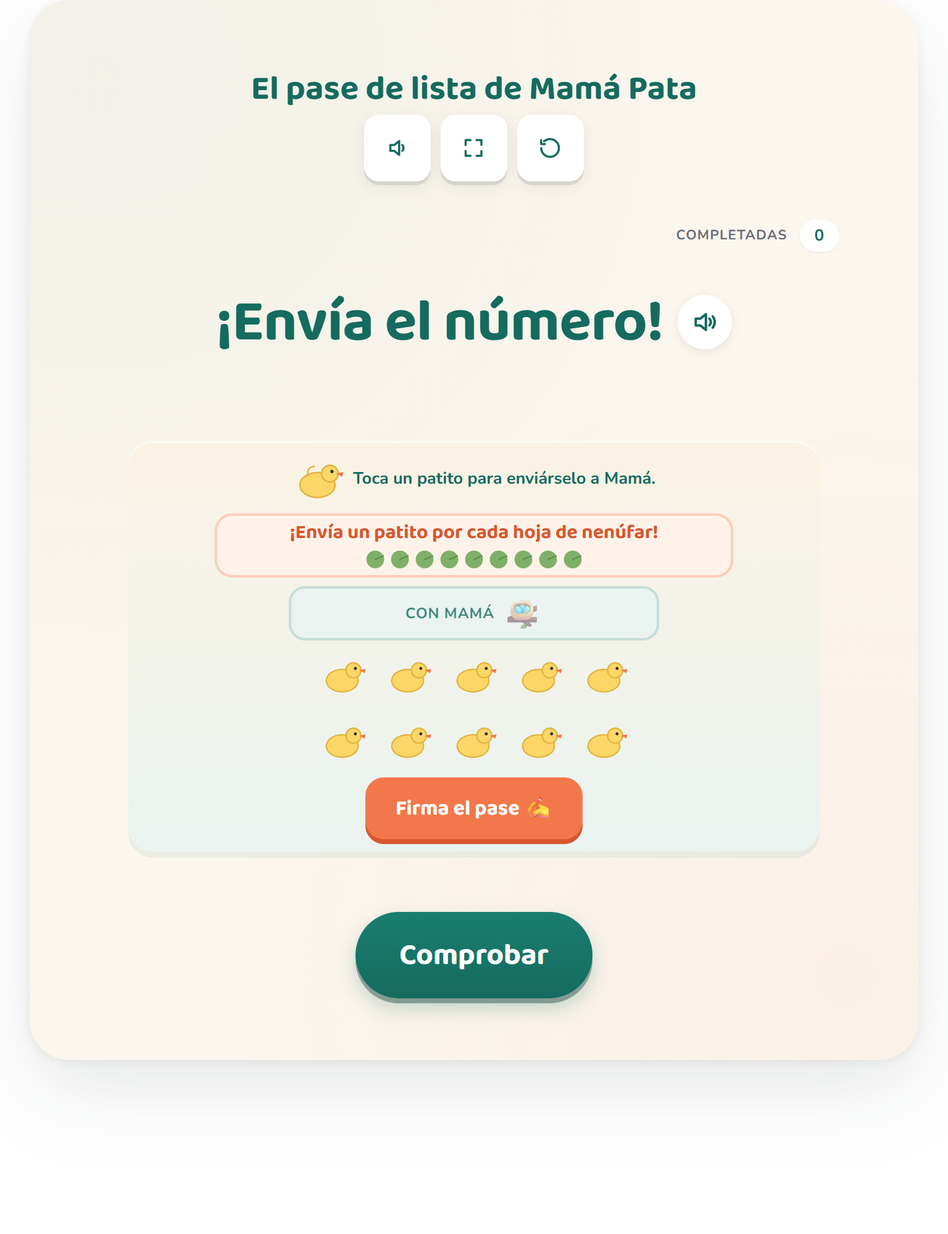
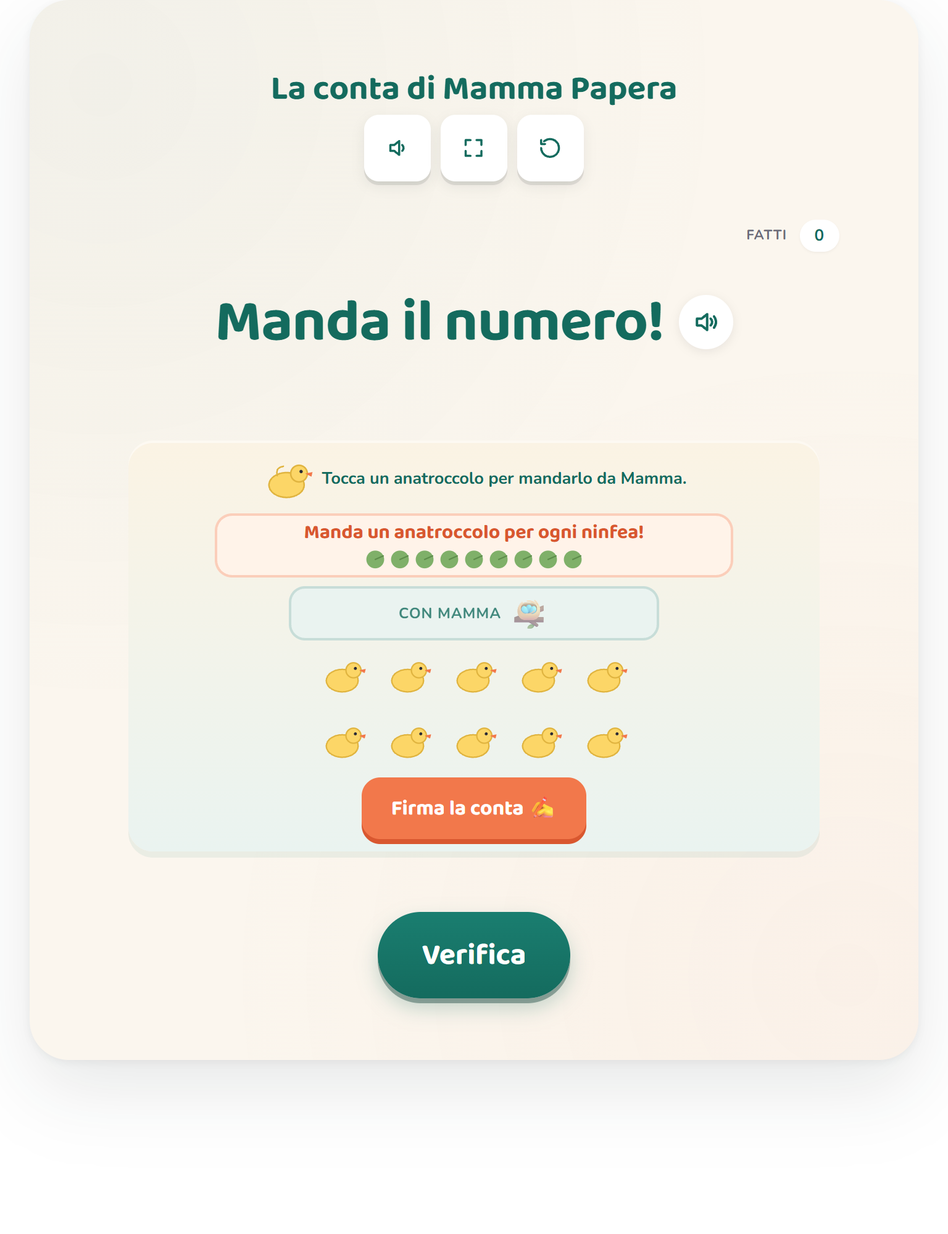
[FEATURE][I18N][IT] mamas-roll-call #71 — La conta di Mamma Papera (contare e scrivere il numero 0-9, Numeri, classe prima)
Italian second-batch fan-out, activity #71 = mamas-roll-call.numeral-trace.k-cc-b-5.
Rebuild not translate for the Indicazioni nazionali (3-agent native ensemble).

- WORDS_IT (0-9) + COLOR_IT ({yellow,brown}×{adj,sg}, gender-aware) + numWord it + speak it-IT (fixes en-US fallback).
- 24 it strings + 5 inline arms (color-word .adj, recall aria, send-duck aria .sg, count-duck aria, zero-speak); apostrophe-free JS.
- ⚠ roll call «la conta» (apostrophe-safe, puns on contare — NOT «l'appello» in JS); traceIt «Scrivi il numero {n}» (digby #64 invariant fix).
- Terminology: Mamma Papera / gli anatroccoli / la zattera / la ninfea / il fango / il numero (NOT «cifra»); COLOR gialli/marroni.
- Register split (pedagogue-sanctioned): child UI «la conta» / parent SEO+prose «l'appello» (U+2019 fine in JSON).
- GRADE classe prima (it:'1', pedagogue-decisive): scrivere il numerale convenzionale 0-9 = past infanzia («simboli personali»; digby #64 boundary — convenzionalità del segno, not range). ALIGNS de/pt; fr(GS)/es(K) diverge.
- STRAND «Numeri» AUTO — no it override (C&C→it «Numeri»; the STRAND row is fr-only; color-subset is a counting task not data).
- Manifest slug/page_title/page_intro it; it.json prose; wrapper 9.523->9.524; html ?v 9->10.
- Framework NAME only, no curriculum code. 132 it activities, all DoD gates green. NO deploy (batch at end).

diff --git a/mini tools/mamas-roll-call-activity.js b/mini tools/mamas-roll-call-activity.js
@@ -36,13 +36,16 @@
   var WORDS_PT = { 0: 'zero', 1: 'um', 2: 'dois', 3: 'três', 4: 'quatro', 5: 'cinco', 6: 'seis', 7: 'sete', 8: 'oito', 9: 'nove' };
   /* Brazilian: adjective FOLLOWS the noun (« patinhos amarelos »); adj = plural for the call, sg = singular for the aria. "marrom" → plural "marrons". */
   var COLOR_PT = { yellow: { adj: 'amarelos', sg: 'amarelo' }, brown: { adj: 'marrons', sg: 'marrom' } };
+  var WORDS_IT = { 0: 'zero', 1: 'uno', 2: 'due', 3: 'tre', 4: 'quattro', 5: 'cinque', 6: 'sei', 7: 'sette', 8: 'otto', 9: 'nove' };
+  /* Italian: adjective FOLLOWS the noun (« anatroccoli gialli »); adj = plural for the call, sg = singular for the aria. "marrone" → plural "marroni". */
+  var COLOR_IT = { yellow: { adj: 'gialli', sg: 'giallo' }, brown: { adj: 'marroni', sg: 'marrone' } };
   var LANG = 'en';
-  function numWord(n) { return (LANG === 'de' ? WORDS_DE : (LANG === 'fr' ? WORDS_FR : (LANG === 'es' ? WORDS_ES : (LANG === 'pt' ? WORDS_PT : WORDS))))[n] || n; }
+  function numWord(n) { return (LANG === 'de' ? WORDS_DE : (LANG === 'fr' ? WORDS_FR : (LANG === 'es' ? WORDS_ES : (LANG === 'pt' ? WORDS_PT : (LANG === 'it' ? WORDS_IT : WORDS)))))[n] || n; }
 
   function speak(text) {
     try {
       if (global.LCSAudio && global.LCSAudio.speak) { global.LCSAudio.speak({ type: 'number', text: String(text), lang: (LANG === 'pt' ? 'pt-BR' : LANG), rate: 0.95 }); return; }
-      if (global.speechSynthesis && global.SpeechSynthesisUtterance) { var u = new global.SpeechSynthesisUtterance(String(text)); u.rate = .95; u.lang = (LANG === 'de' ? 'de-DE' : (LANG === 'fr' ? 'fr-FR' : (LANG === 'es' ? 'es-MX' : (LANG === 'pt' ? 'pt-BR' : 'en-US')))); global.speechSynthesis.cancel(); global.speechSynthesis.speak(u); }
+      if (global.speechSynthesis && global.SpeechSynthesisUtterance) { var u = new global.SpeechSynthesisUtterance(String(text)); u.rate = .95; u.lang = (LANG === 'de' ? 'de-DE' : (LANG === 'fr' ? 'fr-FR' : (LANG === 'es' ? 'es-MX' : (LANG === 'pt' ? 'pt-BR' : (LANG === 'it' ? 'it-IT' : 'en-US'))))); global.speechSynthesis.cancel(); global.speechSynthesis.speak(u); }
     } catch (e) {}
   }
   function duckSVG(kind, mama) {
@@ -63,30 +66,30 @@
     reward: { id: 'rollbook', label: "Mama's Roll-Book", emoji: '🦆' },
 
     strings: {
-      title: { en: "Mama's Roll Call", de: 'Mamas Morgenappell', fr: 'L’appel de Maman', es: 'El pase de lista de Mamá Pata', pt: 'A chamada da Mamãe Pata' },
-      instruction: { en: 'Send Mama the number she calls, then write it.', de: 'Schick Mama die Zahl, die sie ruft – dann schreib sie auf.', fr: 'Envoie à Maman le nombre qu’elle demande, puis écris-le.', es: 'Envíale a Mamá Pata la cantidad de patitos que pida y luego escribe el número.', pt: 'Envie à Mamãe Pata a quantidade de patinhos que ela pedir e depois escreva o número.' },
-      prompt: { en: 'Send the number!', de: 'Schick die Zahl!', fr: 'Envoie le nombre !', es: '¡Envía el número!', pt: 'Envie o número!' },
-      callNumeral: { en: 'Mama needs {n}!', de: 'Mama braucht {n}!', fr: 'Maman a besoin de {n} !', es: '¡Mamá necesita {n}!', pt: 'A Mamãe precisa de {n}!' },
-      callZero: { en: 'Mama needs NONE — let them sleep!', de: 'Mama braucht KEINS – lass sie schlafen!', fr: 'Maman n’en veut AUCUN — laisse-les dormir !', es: 'Mamá no necesita ninguno… ¡déjalos dormir!', pt: 'A Mamãe não precisa de nenhum… deixe eles dormirem!' },
-      callGroup: { en: 'Send a duckling for each lily-pad!', de: 'Schick für jedes Seerosenblatt ein Entenküken!', fr: 'Envoie un caneton pour chaque nénuphar !', es: '¡Envía un patito por cada hoja de nenúfar!', pt: 'Envie um patinho para cada folha de vitória-régia!' },
-      callKind: { en: 'Send {n} {kind} ducklings!', de: 'Schick {n} {kind} Entenküken!', fr: 'Envoie {n} canetons {kind} !', es: '¡Envía {n} patitos {kind}!', pt: 'Envie {n} patinhos {kind}!' },
-      countBrood: { en: 'How many came to Mama? Tap each to count.', de: 'Wie viele sind zu Mama gekommen? Tippe jedes an, um zu zählen.', fr: 'Combien sont venus vers Maman ? Touche chacun pour compter.', es: '¿Cuántos llegaron con Mamá? Toca cada uno para contarlos.', pt: 'Quantos chegaram até a Mamãe? Toque em cada um para contar.' },
-      arriveLab: { en: 'More keep arriving — count them all!', de: 'Es kommen noch mehr – zähl sie alle!', fr: 'Il en arrive encore — compte-les tous !', es: '¡Vienen más… cuéntalos todos!', pt: 'Estão chegando mais… conte todos!' },
-      hintSend: { en: 'Tap a duckling to send it across to Mama.', de: 'Tippe ein Entenküken an, um es zu Mama hinüberzuschicken.', fr: 'Touche un caneton pour l’envoyer vers Maman.', es: 'Toca un patito para enviárselo a Mamá.', pt: 'Toque em um patinho para enviá-lo à Mamãe.' },
-      hintCount: { en: 'Tap each duckling once to count it.', de: 'Tippe jedes Entenküken einmal an, um es zu zählen.', fr: 'Touche chaque caneton une fois pour le compter.', es: 'Toca cada patito una vez para contarlo.', pt: 'Toque em cada patinho uma vez para contá-lo.' },
-      signNav: { en: 'Sign the roll ✍', de: 'Appell unterschreiben ✍', fr: 'Signe l’appel ✍', es: 'Firma el pase ✍', pt: 'Assine a chamada ✍' },
-      moreArrive: { en: 'More arrive ▶', de: 'Es kommen mehr ▶', fr: 'Il en arrive plus ▶', es: 'Vienen más ▶', pt: 'Chegam mais ▶' },
-      backRaft: { en: '← send more', de: '← mehr schicken', fr: '← en envoyer plus', es: '← enviar más', pt: '← enviar mais' },
-      signHint: { en: 'Write the number in the mud to call the roll!', de: 'Schreib die Zahl in den Schlamm, um den Appell aufzurufen!', fr: 'Écris le nombre dans la boue pour faire l’appel !', es: '¡Escribe el número en el lodo para pasar lista!', pt: 'Escreva o número na lama para fazer a chamada!' },
-      traceIt: { en: 'Write the {n}', de: 'Schreib die {n}', fr: 'Écris le {n}', es: 'Escribe el {n}', pt: 'Escreva o {n}' },
-      strokeN: { en: 'Stroke {k}', de: 'Strich {k}', fr: 'Trait {k}', es: 'Trazo {k}', pt: 'Traço {k}' },
-      thisWay: { en: 'Start that stroke first — this way!', de: 'Fang mit diesem Strich an – so herum!', fr: 'Commence par ce trait — dans ce sens !', es: 'Empieza con este trazo… ¡por aquí!', pt: 'Comece por esse traço… por aqui!' },
-      sealed: { en: 'The roll is true — Mama gathers her brood! 🦆', de: 'Der Appell stimmt – Mama sammelt ihre Schar! 🦆', fr: 'L’appel est bon — Maman rassemble ses petits ! 🦆', es: '¡El pase está bien… Mamá reúne a su parvada! 🦆', pt: 'A chamada está certa — a Mamãe reúne os patinhos! 🦆' },
-      sealedZero: { en: 'Zero ducklings — and you wrote the zero! The raft sleeps in. 🌙', de: 'Null Entenküken – und du hast die Null geschrieben! Das Floß schläft weiter. 🌙', fr: 'Zéro caneton — et tu as écrit le zéro ! Le radeau dort encore. 🌙', es: 'Cero patitos… ¡y escribiste el cero! La balsa sigue durmiendo. 🌙', pt: 'Zero patinhos — e você escreveu o zero! A balsa fica dormindo. 🌙' },
-      redo: { en: "Let's call that roll again.", de: 'Lass uns den Appell noch einmal aufrufen.', fr: 'Refaisons l’appel.', es: 'Vamos a pasar lista otra vez.', pt: 'Vamos fazer a chamada de novo.' },
-      tapCheck: { en: 'Tap Check! ✓', de: 'Tippe auf Prüfen! ✓', fr: 'Touche Vérifier ! ✓', es: '¡Toca Comprobar! ✓', pt: 'Toque em Verificar! ✓' },
-      sentLab: { en: 'With Mama', de: 'Bei Mama', fr: 'Avec Maman', es: 'Con Mamá', pt: 'Com a Mamãe' },
-      raftLab: { en: 'The raft', de: 'Das Floß', fr: 'Le radeau', es: 'La balsa', pt: 'A balsa' }
+      title: { en: "Mama's Roll Call", de: 'Mamas Morgenappell', fr: 'L’appel de Maman', es: 'El pase de lista de Mamá Pata', pt: 'A chamada da Mamãe Pata', it: 'La conta di Mamma Papera' },
+      instruction: { en: 'Send Mama the number she calls, then write it.', de: 'Schick Mama die Zahl, die sie ruft – dann schreib sie auf.', fr: 'Envoie à Maman le nombre qu’elle demande, puis écris-le.', es: 'Envíale a Mamá Pata la cantidad de patitos que pida y luego escribe el número.', pt: 'Envie à Mamãe Pata a quantidade de patinhos que ela pedir e depois escreva o número.', it: 'Manda a Mamma il numero che chiama, poi scrivilo.' },
+      prompt: { en: 'Send the number!', de: 'Schick die Zahl!', fr: 'Envoie le nombre !', es: '¡Envía el número!', pt: 'Envie o número!', it: 'Manda il numero!' },
+      callNumeral: { en: 'Mama needs {n}!', de: 'Mama braucht {n}!', fr: 'Maman a besoin de {n} !', es: '¡Mamá necesita {n}!', pt: 'A Mamãe precisa de {n}!', it: 'Mamma ne vuole {n}!' },
+      callZero: { en: 'Mama needs NONE — let them sleep!', de: 'Mama braucht KEINS – lass sie schlafen!', fr: 'Maman n’en veut AUCUN — laisse-les dormir !', es: 'Mamá no necesita ninguno… ¡déjalos dormir!', pt: 'A Mamãe não precisa de nenhum… deixe eles dormirem!', it: 'Mamma non ne vuole NESSUNO — falli dormire!' },
+      callGroup: { en: 'Send a duckling for each lily-pad!', de: 'Schick für jedes Seerosenblatt ein Entenküken!', fr: 'Envoie un caneton pour chaque nénuphar !', es: '¡Envía un patito por cada hoja de nenúfar!', pt: 'Envie um patinho para cada folha de vitória-régia!', it: 'Manda un anatroccolo per ogni ninfea!' },
+      callKind: { en: 'Send {n} {kind} ducklings!', de: 'Schick {n} {kind} Entenküken!', fr: 'Envoie {n} canetons {kind} !', es: '¡Envía {n} patitos {kind}!', pt: 'Envie {n} patinhos {kind}!', it: 'Manda {n} anatroccoli {kind}!' },
+      countBrood: { en: 'How many came to Mama? Tap each to count.', de: 'Wie viele sind zu Mama gekommen? Tippe jedes an, um zu zählen.', fr: 'Combien sont venus vers Maman ? Touche chacun pour compter.', es: '¿Cuántos llegaron con Mamá? Toca cada uno para contarlos.', pt: 'Quantos chegaram até a Mamãe? Toque em cada um para contar.', it: 'Quanti sono arrivati da Mamma? Tocca ognuno per contarli.' },
+      arriveLab: { en: 'More keep arriving — count them all!', de: 'Es kommen noch mehr – zähl sie alle!', fr: 'Il en arrive encore — compte-les tous !', es: '¡Vienen más… cuéntalos todos!', pt: 'Estão chegando mais… conte todos!', it: 'Ne arrivano altri — contali tutti!' },
+      hintSend: { en: 'Tap a duckling to send it across to Mama.', de: 'Tippe ein Entenküken an, um es zu Mama hinüberzuschicken.', fr: 'Touche un caneton pour l’envoyer vers Maman.', es: 'Toca un patito para enviárselo a Mamá.', pt: 'Toque em um patinho para enviá-lo à Mamãe.', it: 'Tocca un anatroccolo per mandarlo da Mamma.' },
+      hintCount: { en: 'Tap each duckling once to count it.', de: 'Tippe jedes Entenküken einmal an, um es zu zählen.', fr: 'Touche chaque caneton une fois pour le compter.', es: 'Toca cada patito una vez para contarlo.', pt: 'Toque em cada patinho uma vez para contá-lo.', it: 'Tocca ogni anatroccolo una volta per contarlo.' },
+      signNav: { en: 'Sign the roll ✍', de: 'Appell unterschreiben ✍', fr: 'Signe l’appel ✍', es: 'Firma el pase ✍', pt: 'Assine a chamada ✍', it: 'Firma la conta ✍' },
+      moreArrive: { en: 'More arrive ▶', de: 'Es kommen mehr ▶', fr: 'Il en arrive plus ▶', es: 'Vienen más ▶', pt: 'Chegam mais ▶', it: 'Ne arrivano altri ▶' },
+      backRaft: { en: '← send more', de: '← mehr schicken', fr: '← en envoyer plus', es: '← enviar más', pt: '← enviar mais', it: '← mandane altri' },
+      signHint: { en: 'Write the number in the mud to call the roll!', de: 'Schreib die Zahl in den Schlamm, um den Appell aufzurufen!', fr: 'Écris le nombre dans la boue pour faire l’appel !', es: '¡Escribe el número en el lodo para pasar lista!', pt: 'Escreva o número na lama para fazer a chamada!', it: 'Scrivi il numero nel fango per fare la conta!' },
+      traceIt: { en: 'Write the {n}', de: 'Schreib die {n}', fr: 'Écris le {n}', es: 'Escribe el {n}', pt: 'Escreva o {n}', it: 'Scrivi il numero {n}' },
+      strokeN: { en: 'Stroke {k}', de: 'Strich {k}', fr: 'Trait {k}', es: 'Trazo {k}', pt: 'Traço {k}', it: 'Tratto {k}' },
+      thisWay: { en: 'Start that stroke first — this way!', de: 'Fang mit diesem Strich an – so herum!', fr: 'Commence par ce trait — dans ce sens !', es: 'Empieza con este trazo… ¡por aquí!', pt: 'Comece por esse traço… por aqui!', it: 'Comincia prima da quel tratto — così!' },
+      sealed: { en: 'The roll is true — Mama gathers her brood! 🦆', de: 'Der Appell stimmt – Mama sammelt ihre Schar! 🦆', fr: 'L’appel est bon — Maman rassemble ses petits ! 🦆', es: '¡El pase está bien… Mamá reúne a su parvada! 🦆', pt: 'A chamada está certa — a Mamãe reúne os patinhos! 🦆', it: 'La conta è giusta — Mamma raduna i suoi piccoli! 🦆' },
+      sealedZero: { en: 'Zero ducklings — and you wrote the zero! The raft sleeps in. 🌙', de: 'Null Entenküken – und du hast die Null geschrieben! Das Floß schläft weiter. 🌙', fr: 'Zéro caneton — et tu as écrit le zéro ! Le radeau dort encore. 🌙', es: 'Cero patitos… ¡y escribiste el cero! La balsa sigue durmiendo. 🌙', pt: 'Zero patinhos — e você escreveu o zero! A balsa fica dormindo. 🌙', it: 'Zero anatroccoli — e hai scritto lo zero! La zattera resta a dormire. 🌙' },
+      redo: { en: "Let's call that roll again.", de: 'Lass uns den Appell noch einmal aufrufen.', fr: 'Refaisons l’appel.', es: 'Vamos a pasar lista otra vez.', pt: 'Vamos fazer a chamada de novo.', it: 'Rifacciamo la conta.' },
+      tapCheck: { en: 'Tap Check! ✓', de: 'Tippe auf Prüfen! ✓', fr: 'Touche Vérifier ! ✓', es: '¡Toca Comprobar! ✓', pt: 'Toque em Verificar! ✓', it: 'Tocca Controlla! ✓' },
+      sentLab: { en: 'With Mama', de: 'Bei Mama', fr: 'Avec Maman', es: 'Con Mamá', pt: 'Com a Mamãe', it: 'Con Mamma' },
+      raftLab: { en: 'The raft', de: 'Das Floß', fr: 'Le radeau', es: 'La balsa', pt: 'A balsa', it: 'La zattera' }
     },
     defaults: {},
 
@@ -146,7 +149,7 @@
       var n = this._n(), bign = '<span class="rc-call-big">' + n + '</span>';
       var t = api.el('div', 'rc-call-text');
       if (this.act === 'count-out-distract') {
-        var k = this.round.call.kind, kindWord = (LANG === 'de' && COLOR_DE[k]) ? COLOR_DE[k].adj : ((LANG === 'fr' && COLOR_FR[k]) ? COLOR_FR[k].adj : ((LANG === 'es' && COLOR_ES[k]) ? COLOR_ES[k].adj : ((LANG === 'pt' && COLOR_PT[k]) ? COLOR_PT[k].adj : k)));
+        var k = this.round.call.kind, kindWord = (LANG === 'de' && COLOR_DE[k]) ? COLOR_DE[k].adj : ((LANG === 'fr' && COLOR_FR[k]) ? COLOR_FR[k].adj : ((LANG === 'es' && COLOR_ES[k]) ? COLOR_ES[k].adj : ((LANG === 'pt' && COLOR_PT[k]) ? COLOR_PT[k].adj : ((LANG === 'it' && COLOR_IT[k]) ? COLOR_IT[k].adj : k))));
         t.innerHTML = api.t('callKind').replace('{n}', bign).replace('{kind}', kindWord);
       } else {
         t.innerHTML = api.t('callNumeral').replace('{n}', bign);
@@ -172,13 +175,13 @@
       s.sent.forEach(function (d) { var m = api.el('span', 'rc-sentmini'); m.innerHTML = duckSVG(d.kind); srow.appendChild(m); });
       if (!s.sent.length) { var e = api.el('span', 'rc-emptyz'); e.textContent = '🪺'; srow.appendChild(e); }
       sent.appendChild(srow);
-      if (s.sent.length) { var rb = api.el('button', 'rc-recall'); rb.type = 'button'; rb.textContent = '↩'; rb.setAttribute('aria-label', LANG === 'de' ? 'eins zurückrufen' : (LANG === 'fr' ? 'en rappeler un' : (LANG === 'es' ? 'regresar un patito' : (LANG === 'pt' ? 'devolver um patinho' : 'call one back')))); rb.addEventListener('click', function () { Core.recallDuck(s, s.sent[s.sent.length - 1].id); self.msg = null; self.api.sound && self.api.sound(360); self.render(); }); sent.appendChild(rb); }
+      if (s.sent.length) { var rb = api.el('button', 'rc-recall'); rb.type = 'button'; rb.textContent = '↩'; rb.setAttribute('aria-label', LANG === 'de' ? 'eins zurückrufen' : (LANG === 'fr' ? 'en rappeler un' : (LANG === 'es' ? 'regresar un patito' : (LANG === 'pt' ? 'devolver um patinho' : (LANG === 'it' ? 'richiamane uno' : 'call one back'))))); rb.addEventListener('click', function () { Core.recallDuck(s, s.sent[s.sent.length - 1].id); self.msg = null; self.api.sound && self.api.sound(360); self.render(); }); sent.appendChild(rb); }
       col.appendChild(sent);
       // the raft (remaining) — tap to send (no label; the ducks obviously are the raft)
       var raft = api.el('div', 'rc-raft');
       var remaining = s.raft.filter(function (d) { return !s.sent.some(function (x) { return x.id === d.id; }); });
       var rrow = api.el('div', 'rc-ducks rc-lay-' + (this.round.raft.arrangement || 'tidy'));
-      remaining.forEach(function (d) { var b = api.el('button', 'rc-duck'); b.type = 'button'; b.innerHTML = duckSVG(d.kind); b.setAttribute('aria-label', LANG === 'de' ? ((COLOR_DE[d.kind] ? COLOR_DE[d.kind].sg + ' ' : '') + 'Entenküken — zum Schicken tippen') : (LANG === 'fr' ? ((COLOR_FR[d.kind] ? 'caneton ' + COLOR_FR[d.kind].sg : 'caneton') + ' — touche pour l’envoyer') : (LANG === 'es' ? ((COLOR_ES[d.kind] ? 'patito ' + COLOR_ES[d.kind].sg : 'patito') + ' — toca para enviarlo') : (LANG === 'pt' ? ((COLOR_PT[d.kind] ? 'patinho ' + COLOR_PT[d.kind].sg : 'patinho') + ' — toque para enviar') : (d.kind + ' duckling — tap to send'))))); b.addEventListener('click', function () { Core.sendDuck(s, d.id); self.msg = null; self.api.sound && self.api.sound(520); self.render(); }); rrow.appendChild(b); });
+      remaining.forEach(function (d) { var b = api.el('button', 'rc-duck'); b.type = 'button'; b.innerHTML = duckSVG(d.kind); b.setAttribute('aria-label', LANG === 'de' ? ((COLOR_DE[d.kind] ? COLOR_DE[d.kind].sg + ' ' : '') + 'Entenküken — zum Schicken tippen') : (LANG === 'fr' ? ((COLOR_FR[d.kind] ? 'caneton ' + COLOR_FR[d.kind].sg : 'caneton') + ' — touche pour l’envoyer') : (LANG === 'es' ? ((COLOR_ES[d.kind] ? 'patito ' + COLOR_ES[d.kind].sg : 'patito') + ' — toca para enviarlo') : (LANG === 'pt' ? ((COLOR_PT[d.kind] ? 'patinho ' + COLOR_PT[d.kind].sg : 'patinho') + ' — toque para enviar') : (LANG === 'it' ? ((COLOR_IT[d.kind] ? 'anatroccolo ' + COLOR_IT[d.kind].sg : 'anatroccolo') + ' — tocca per mandarlo') : (d.kind + ' duckling — tap to send')))))); b.addEventListener('click', function () { Core.sendDuck(s, d.id); self.msg = null; self.api.sound && self.api.sound(520); self.render(); }); rrow.appendChild(b); });
       raft.appendChild(rrow); col.appendChild(raft);
       return col;
     },
@@ -187,7 +190,7 @@
       var brood = s.brood;
       var shown = (this.act === 'running-total') ? brood.slice(0, this._revealedCount()) : brood;
       var row = api.el('div', 'rc-ducks rc-lay-tidy');
-      shown.forEach(function (d) { var counted = !!s.counted[d.id]; var b = api.el('button', 'rc-duck' + (counted ? ' rc-counted' : '')); b.type = 'button'; b.innerHTML = duckSVG('duck'); b.setAttribute('aria-label', LANG === 'de' ? ('Entenküken' + (counted ? ', gezählt' : '')) : (LANG === 'fr' ? ('caneton' + (counted ? ', compté' : '')) : (LANG === 'es' ? ('patito' + (counted ? ', contado' : '')) : (LANG === 'pt' ? ('patinho' + (counted ? ', contado' : '')) : ('duckling' + (counted ? ', counted' : '')))))); b.addEventListener('click', function () { if (!s.counted[d.id]) { Core.countDuck(s, d.id); self.api.sound && self.api.sound(540 + Core.countedSize(s) * 20); speak(Core.countedSize(s)); self.msg = null; self.render(); } }); if (counted) { var ck = api.el('span', 'rc-check'); ck.textContent = '✓'; b.appendChild(ck); } row.appendChild(b); });
+      shown.forEach(function (d) { var counted = !!s.counted[d.id]; var b = api.el('button', 'rc-duck' + (counted ? ' rc-counted' : '')); b.type = 'button'; b.innerHTML = duckSVG('duck'); b.setAttribute('aria-label', LANG === 'de' ? ('Entenküken' + (counted ? ', gezählt' : '')) : (LANG === 'fr' ? ('caneton' + (counted ? ', compté' : '')) : (LANG === 'es' ? ('patito' + (counted ? ', contado' : '')) : (LANG === 'pt' ? ('patinho' + (counted ? ', contado' : '')) : (LANG === 'it' ? ('anatroccolo' + (counted ? ', contato' : '')) : ('duckling' + (counted ? ', counted' : ''))))))); b.addEventListener('click', function () { if (!s.counted[d.id]) { Core.countDuck(s, d.id); self.api.sound && self.api.sound(540 + Core.countedSize(s) * 20); speak(Core.countedSize(s)); self.msg = null; self.render(); } }); if (counted) { var ck = api.el('span', 'rc-check'); ck.textContent = '✓'; b.appendChild(ck); } row.appendChild(b); });
       col.appendChild(row);
       if (this.act === 'running-total' && this.batchIdx < (this.round.arriving.length - 1)) {
         var more = api.el('button', 'rc-more'); more.type = 'button'; more.textContent = api.t('moreArrive'); more.addEventListener('click', function () { self.batchIdx++; self.api.sound && self.api.sound(480); self.render(); }); col.appendChild(more);
@@ -294,7 +297,7 @@
       if (r === 'sealed') {
         this.api.sound && this.api.sound(940);
         this.msg = (this._n() === 0) ? api.t('sealedZero') : api.t('sealed');
-        speak(this._n() === 0 ? (LANG === 'de' ? 'null' : (LANG === 'fr' ? 'zéro' : (LANG === 'es' ? 'cero' : (LANG === 'pt' ? 'zero' : 'zero')))) : numWord(this._n()));
+        speak(this._n() === 0 ? (LANG === 'de' ? 'null' : (LANG === 'fr' ? 'zéro' : (LANG === 'es' ? 'cero' : (LANG === 'pt' ? 'zero' : (LANG === 'it' ? 'zero' : 'zero'))))) : numWord(this._n()));
         this._win();
       } else {
         this.api.sound && this.api.sound(320); this.msg = api.t('redo');

diff --git a/frontend/app/[locale]/activities/[slug]/page.tsx b/frontend/app/[locale]/activities/[slug]/page.tsx
@@ -118,7 +118,7 @@ const GRADE_OVERRIDE: Record<string, Record<string, string>> = {
   'posy-egg-cartons.count-tens.k-cc-a-1': { de: '2', fr: '1', es: '1', pt: '1', it: '2' },  // it classe SECONDA (pedagogue-decisive, DIVERGES es/fr/pt=1, ALIGNS de=2 by an INDEPENDENT Italian ruling): «la classe prima italiana è il regno dei numeri entro il 20»; contare di dieci in dieci fino a 100 + riconoscere un numeral entro il 100 = caposaldo di classe seconda (l'entro-100 RANGE è il marcatore, non la meccanica del valore posizionale — la scansione italiana è vicina alla tedesca). Strand «Numeri» auto (contare, non Álgebra) — NO STRAND_OVERRIDE. // K count-by-tens CONTENT bis 100. PT 1º ano (pedagogue-decisive, NOT 2º): contar coleção ATÉ 100 de 10 em 10 (agrupamento) = BNCC EF01MA04 ("até 100... jogos/brincadeiras", explícito no 1º) + EF01MA02 (contar por agrupamentos); a Klasse-2 alemã é artefato de estratificação DE (ZR-bis-100), NÃO transfere à BNCC (sem esse teto). ⚠ DISTINTO de bos-berry-pantry pt='2': posy CONTA uma coleção (caixas-de-dez = suporte de contagem), NÃO lê/decompõe numeral de duas ordens por valor posicional (isso é o que a BNCC adia para 2º). Harmoniza com fr(CP)/es(1.º). Strand Números pelo auto-map (contagem, NÃO Álgebra — não completa sequência) → SEM STRAND_OVERRIDE pt. → Klasse 2 (ZR bis 100 = Klasse 2; content drives the grade, the pond-juice/bundle-bot precedent); en stays Kindergarten. FR CP: compter de 10 en 10 jusqu'à 100 / les nombres jusqu'à 100 (groupements par dizaines) = attendu de CP (le domaine des nombres jusqu'à 100 débute au CP en France) → native 'K' does NOT auto-map to GS (la GS s'arrête vers 30, sans dizaines structurées); the FIRST cycle-2 counting fan, DIVERGES from de Klasse 2; strand auto-map « Nombres et calcul » is correct for CP → NO STRAND override. ES 1.º primaria (maestra-decisive #61, "no escalation"): 1.º mexicano trabaja hasta 100 + la decena + contar de 10 en 10; la Klasse-2 alemana NO transfiere (artefacto de estratificación DE); alinea los hermanos base-ten es within-100 (bundle-bot/track-repair/ten-tank='1'). strand auto «Sentido numérico» (no override)
   'twinsies.count-twin.k-cc-b-5': { de: '1', pt: '1', it: '1' },          // IT classe prima (pedagogue-decisive, overturned fr/es): the written-NUMERAL round (leggere "8", formare 8) instantiates a classe-prima «Numeri» obiettivo (leggere/scrivere i numeri; l'infanzia usa «simboli personali», NON il numerale) + range-to-12 + count-on «in senso progressivo» → past infanzia. ALIGNS de/pt; diverges fr (GS)/es (preescolar, stay base K). STRAND «Numeri» AUTO (C&C→it «Numeri»; arrangements are a DECOY not geometry) — NO it STRAND_OVERRIDE (line ~173 is fr-only). // K count + make a gleich-große Menge (Anzahlinvarianz, ZR bis 12) → Klasse 1; en stays Kindergarten (K-cluster pattern). PT 1º ano · EF01MA03 · Números: a criança conta a coleção do duende e PRODUZ uma coleção "gêmea" com a mesma quantidade, em arranjo diferente (fila/espalhado/campo/numeral) — só o número coincide, não a forma (conservação do número). EF01MA03 (correspondência um a um: tem mais/menos/a mesma quantidade) — MESMA habilidade da friendship-bridge, aqui do lado PRODUZIR ("dar tantos quanto") em vez de julgar. Espelha de (Klasse 1) + friendship-bridge; diverge de fr (GS)/es (preescolar): a fronteira da BNCC p/ a correspondência "mesma quantidade" cai um degrau acima da maternelle/SEP. NÃO é EI (construção sistemática por correspondência = 1º). C&C→Números auto-map, SEM STRAND_OVERRIDE pt
   'rivets-number-forge.numeral-album.k-cc-a-3': { de: '1', fr: '1', pt: '1', it: '1' },  // IT classe prima (pedagogue-decisive): contare + SCRIVERE/produrre il numerale convenzionale 0-20 (incluso lo zero) = obiettivo classe-prima «Numeri» «leggere e scrivere i numeri naturali»; l'infanzia registra con «simboli personali», NON il numerale (same boundary as digby #64) + range-to-20/teen/zero-scritto exceed infanzia. STRAND «Numeri» AUTO (C&C→it «Numeri»; the numeral-built-from-objects is fantasy decoration, NOT «Spazio e figure») — NO it STRAND_OVERRIDE. ALIGNS de/fr/pt; es='K' nativo diverges. // PT 1º ano · Números · EF01MA01 (utilizar o número natural como indicador de quantidade). A criança conta a coleção e FORJA o numeral escrito (0 a 20, incl. o zero) que diz quantos são — relacionar quantidade ↔ registro simbólico, a terceira face do K.CC.A.3 (ler/escrever/contar-e-representar). Espelha pips-round (leitura 0-20) e digby (escrita 0-9), ambos pt 1º/EF01MA01. Zero e a faixa 0-20 não sobem (o numeral é PRODUZIDO como rótulo da contagem, sem decomposição por valor posicional). C&C→Números auto-map, SEM STRAND_OVERRIDE. Converge com de(Klasse1)/fr(CP), diverge de es='K' nativo. // K count-enacted numeral production (Anzahl bis 20 + passende Ziffer) → Klasse 1 (ZR bis 20); en stays Kindergarten (K-cluster; digby/pips siblings precedent). fr → CP (RANGE-driven like the READ sibling pips #99: producing two-digit teen numerals 10-14 = « écrire les nombres jusqu'à 20 en chiffres » CP, not the GS 0-9 digby ceiling); strand auto-maps « Nombres et calcul »
-  'mamas-roll-call.numeral-trace.k-cc-b-5': { de: '1', pt: '1' },         // PT 1º ano · Números · EF01MA04. A Mamãe Pata faz a chamada: pede um número exato de patinhos (0-9), a criança CONTA um a um essa quantidade da balsa e a envia e, por fim, ASSINA a chamada ESCREVENDO/traçando o algarismo (0-9). Híbrido contar-coleção + registrar-algarismo → EF01MA04 ("contar... e apresentar o resultado por registros verbais e SIMBÓLICOS") é o gesto contar-para-depois-escrever. Espelha twinsies (face de contagem/coleção, EF01MA03) e digby (face da escrita convencional, EF01MA01), reunidos. Fica 1º (as duas faces são 1º; nem o teto 9 nem o zero rebaixam a escrita do algarismo). Converge com de(Klasse1), diverge de fr(GS)/es(K). C&C→Números auto-map, SEM STRAND_OVERRIDE pt. // K count-out (self-stop) + Ziffer formen (Anzahl bis 9) → Klasse 1; en stays Kindergarten (K-cluster; mochi/twinsies K.CC.B.5 precedent)
+  'mamas-roll-call.numeral-trace.k-cc-b-5': { de: '1', pt: '1', it: '1' },         // IT classe prima (pedagogue-decisive): SCRIVERE il numerale convenzionale 0-9 (traccia guidata, "firma la conta") = obiettivo classe-prima «Numeri» «leggere e scrivere i numeri naturali»; l'infanzia registra con «simboli personali/non convenzionali», NON il numerale (convenzionalità del segno = il confine, NON la fascia 0-9; stesso criterio di digby #64). ALIGNS de/pt; divergenza principiata da fr(GS)/es(K). STRAND «Numeri» AUTO (C&C→it «Numeri»; il round color-subset è un compito di CONTA, non di dati) — NO it STRAND_OVERRIDE (line ~171 is fr-only). // PT 1º ano · Números · EF01MA04. A Mamãe Pata faz a chamada: pede um número exato de patinhos (0-9), a criança CONTA um a um essa quantidade da balsa e a envia e, por fim, ASSINA a chamada ESCREVENDO/traçando o algarismo (0-9). Híbrido contar-coleção + registrar-algarismo → EF01MA04 ("contar... e apresentar o resultado por registros verbais e SIMBÓLICOS") é o gesto contar-para-depois-escrever. Espelha twinsies (face de contagem/coleção, EF01MA03) e digby (face da escrita convencional, EF01MA01), reunidos. Fica 1º (as duas faces são 1º; nem o teto 9 nem o zero rebaixam a escrita do algarismo). Converge com de(Klasse1), diverge de fr(GS)/es(K). C&C→Números auto-map, SEM STRAND_OVERRIDE pt. // K count-out (self-stop) + Ziffer formen (Anzahl bis 9) → Klasse 1; en stays Kindergarten (K-cluster; mochi/twinsies K.CC.B.5 precedent)
   'parking-tower.place-by-relation.k-g-a-1': { de: '1', pt: '1' },        // K Lagebeziehungen über/unter/neben/zwischen → Klasse 1 Geometrie; en stays Kindergarten (K-cluster). // PT 1º ano (override do native 'K'): descrever a localização de objetos em relação a um DADO PONTO DE REFERÊNCIA (o veículo já estacionado) usando em cima/embaixo/ao lado/entre = BNCC EF01MA12 (unidade Geometria, 1º ano — a habilidade nomeia "em cima, embaixo" e exige explicitar o referente; distinta de EF01MA11, relativa à própria posição direita/esquerda/frente/atrás). A Educação Infantil trata noções espaciais só informalmente (campos de experiência), sem o construto do referente → BNCC formaliza em 1º. Converge com de(Klasse 1), diverge de fr(GS)/es(Kínder). Strand Geometria resolve pelo auto-map (Geometry→Geometria, strand-names.ts:64) — SEM STRAND_OVERRIDE pt (o override :165 é fr-only).
   'clock-convert.12-24.2-md-c-7': { es: '3', pt: '3' },                  // ES 3.º primaria (override del manifest '2'): leer el reloj de 24h + la conversión +12 + mapear a la parte del día es un paso ARRIBA de los hermanos — clock-ampm (a.m./p.m., 1.º) < clock-read (analógico hasta cuartos, 2.º) < clock-convert (24h+conversión, 3.º); maestra-decisive (tema SEP real: horarios/transporte/dispositivos); strand auto «Magnitudes y medida» (no override); en/de/fr manifest '2'. PT 3º ano por BNCC EF03MA22 (ler horas em relógios digitais + relação hora↔minutos); 2º = EF02MA19 (duração de intervalos, sem decodificar/converter). Strand auto «Grandezas e medidas» (sem override)
   'clock-read.tell-time.1-md-b-3': { es: '2', pt: '2' },              // ES 2.º primaria (operator-ruled #73, maestra-decisive): leer/poner el reloj analógico es PRIMARIA (no preescolar); dentro de primaria el SEP «Magnitudes y medida» separa 1.º=en punto+y media, 2.º=cuartos («y cuarto»/«cuarto para las…»); el techo de la actividad es "cuarto para las…" = objetivo de 2.º → override deliberado del manifest "1" + de Klasse 1 (de/fr caen al grado 1 del manifest); strand auto «Magnitudes y medida» (no override). // PT 2º ano · Grandezas e medidas · EF02MA19 (informar horário no relógio de ponteiros). Lê/ajusta a face analógica só nas 4 POSIÇÕES canônicas (12/3/6/9 → em ponto/e quinze/e meia/quinze para) — sem minutos "quebrados", sem segundos → abaixo do limiar de EF03MA23 (relação hora↔minuto↔segundo, 3º). EF02MA18 rejeitada (calendário/datas). Mantém a escada de 3 degraus: EF01MA17 (períodos, clock-ampm) → EF02MA19 (ler horário) → EF03MA22/23 (tempo decorrido, clock-elapsed). Espelha o precedente es-MX 2.º; grade nativo de/fr '1' sobreposto. Strand Grandezas e medidas pelo auto-map (M&D, strand-names.ts:79) — SEM STRAND_OVERRIDE pt.
@@ -555,7 +555,7 @@ export default async function ActivityPage({ params }: { params: PageParams }) {
   // applied here to the iframe-loaded wrapper URL (the only un-busted
   // link in the activity-page → mini-tool chain). The wrapper reads
   // only `activity` / `lang` / `embed` params; `v` is harmless to it.
-  const ACTIVITY_WRAPPER_VERSION = '9.523';
+  const ACTIVITY_WRAPPER_VERSION = '9.524';
 
   const iframeSrc =
     `/mini-tools/${row.tool}.html?v=${ACTIVITY_WRAPPER_VERSION}` +

diff --git a/mini tools/mamas-roll-call-activity.html b/mini tools/mamas-roll-call-activity.html
@@ -17,7 +17,7 @@
        NOTE: bump ?v=N on EVERY change to mamas-roll-call-activity.js (§A.13.42). -->
   <script src="/mini-tools/lcs-shell.js?v=5"></script>
   <script src="/mini-tools/numeral-trace-core.js?v=3"></script>
-  <script src="/mini-tools/mamas-roll-call-activity.js?v=9"></script>
+  <script src="/mini-tools/mamas-roll-call-activity.js?v=10"></script>
   <script>
     LCS.mount(MamasRollCallActivity, { mount: '#lcs-root' });
   </script>
